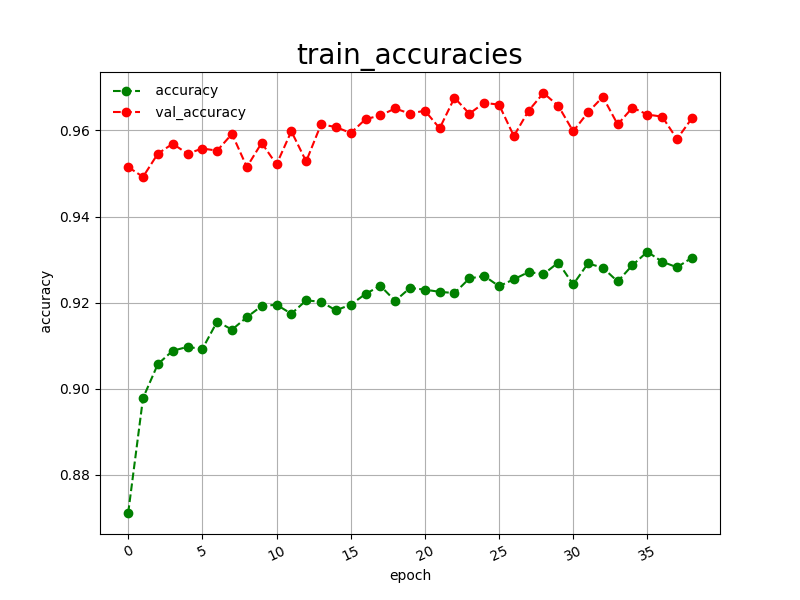
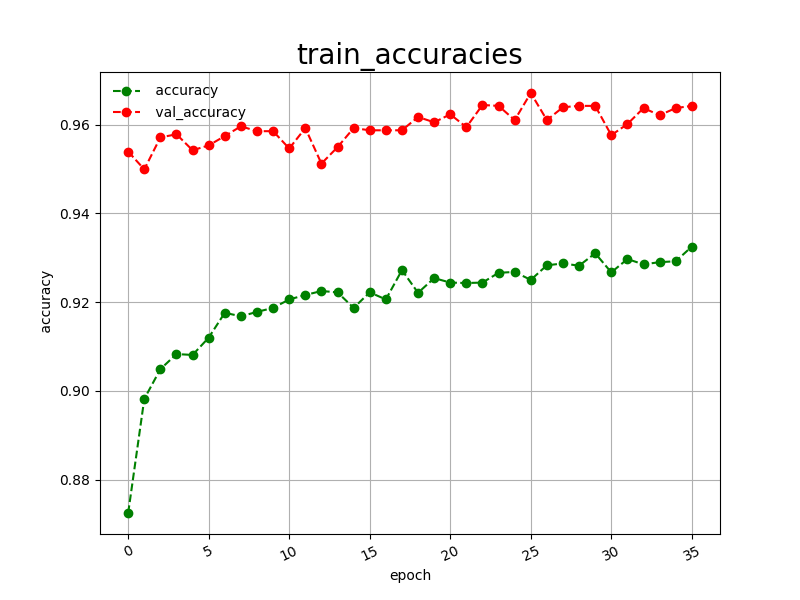
Updated train.bat script.

diff --git a/README.md b/README.md
@@ -1,4 +1,4 @@
-<h2>EfficientNet-Malaria (Updated: 2022/08/30)</h2>
+<h2>EfficientNet-Malaria (Updated: 2022/08/31)</h2>
 <a href="#1">1 EfficientNetV2 Malaria Cell Images Classification </a><br>
 <a href="#1.1">1.1 Clone repository</a><br>
 <a href="#1.2">1.2 Prepare Malaria Cell Images dataset</a><br>
@@ -174,9 +174,9 @@ rem 1_train.bat
 python ../../EfficientNetV2ModelTrainer.py ^
   --model_dir=./models ^
   --eval_dir=./eval ^
-  --model_name=efficientnetv2-s ^
+  --model_name=efficientnetv2-b0 ^
   --data_generator_config=./data_generator.config ^
-  --ckpt_dir=../../efficientnetv2-b0-21k-ft1k/model ^
+  --ckpt_dir=../../efficientnetv2-b0/model ^
   --optimizer=rmsprop ^
   --image_size=224 ^
   --eval_image_size=224 ^
@@ -223,7 +223,7 @@ Furthermore, it will generate a <a href="./projects/Malaris/eval/train_accuracie
 and <a href="./projects/Malaria/eval/train_losses.csv">train_losses</a> files
 <br>
 Training console output:<br>
-<img src="./asset/Malaria_train_console_output_at_epoch_39_0829.png" width="740" height="auto"><br>
+<img src="./asset/Malaria_train_console_output_at_epoch_36_0831.png" width="740" height="auto"><br>
 <br>
 Train_accuracies:<br>
 <img src="./projects/Malaria/eval/train_accuracies.png" width="640" height="auto"><br>
@@ -285,11 +285,11 @@ More experiments will be needed to improve accuracy.<br>
 
 <br>
 Inference console output:<br>
-<img src="./asset/Malaria_infer_console_output_at_epoch_39_0829.png" width="740" height="auto"><br>
+<img src="./asset/Malaria_infer_console_output_at_epoch_36_0831.png" width="740" height="auto"><br>
 <br>
 
 Inference result (inference.csv):<br>
-<img src="./asset/Malaria_inference_at_epoch_39_0829.png" width="740" height="auto"><br>
+<img src="./asset/Malaria_infer_at_epoch_36_0831.png" width="740" height="auto"><br>
 <br>
 <h2>
 <a id="6">6 Evaluation</a>
@@ -328,12 +328,12 @@ This evaluation command will generate <a href="./projects/Malaris/evaluation/cla
 <br>
 <br>
 Evaluation console output:<br>
-<img src="./asset/Malaria_evaluate_console_output_at_epoch_39_0829.png" width="740" height="auto"><br>
+<img src="./asset/Malaria_evaluate_console_output_at_epoch_36_0831.png" width="740" height="auto"><br>
 <br>
 
 <br>
 Classification report:<br>
-<img src="./asset/Malaria_classification_report_at_epoch_39_0829.png" width="740" height="auto"><br>
+<img src="./asset/Malaria_classification_report_at_epoch_36_0831.png" width="740" height="auto"><br>
 <br>
 Confusion matrix:<br>
 <img src="./projects/Malaria/evaluation/confusion_matrix.png" width="740" height="auto"><br>
